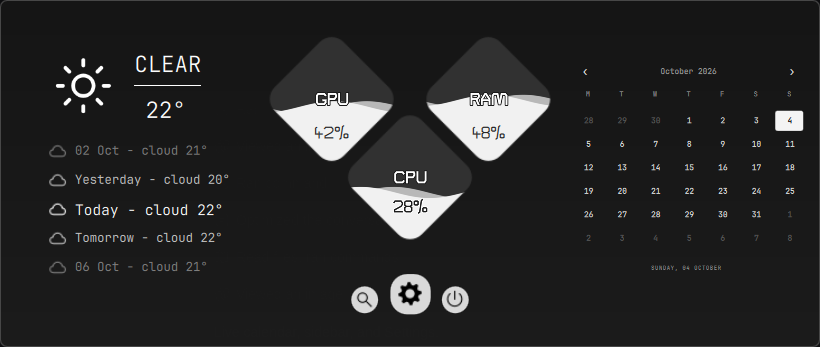
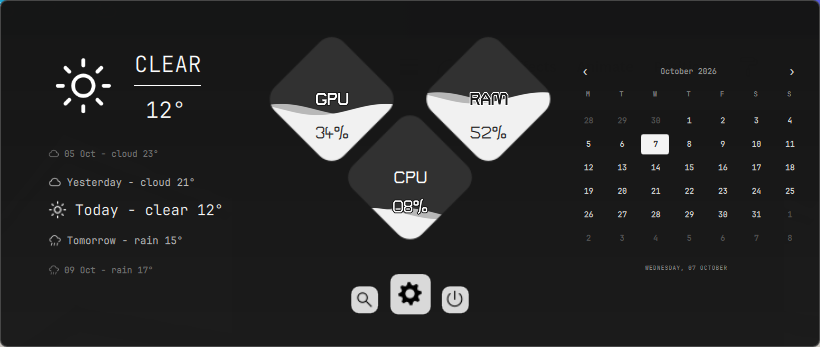
Synchronize calendar current weather and scale forecast rows

diff --git a/config/quickshell/ghost-bar/CalendarPanel.qml b/config/quickshell/ghost-bar/CalendarPanel.qml
@@ -99,10 +99,18 @@ Item {
             return .82 + .18 * (t - 120) / 60;
         return 1;
     }
-    function labelDay(dateString) {
+    function dayOffset(dateString) {
         const d = new Date(dateString + "T12:00:00");
         const today = new Date(now.getFullYear(), now.getMonth(), now.getDate(), 12);
-        const delta = Math.round((d - today) / 86400000);
+        return Math.round((d - today) / 86400000);
+    }
+    function forecastScale(dateString) {
+        const distance = Math.abs(dayOffset(dateString));
+        return distance === 0 ? 1 : distance === 1 ? 0.7 : 0.6;
+    }
+    function labelDay(dateString) {
+        const delta = dayOffset(dateString);
+        const d = new Date(dateString + "T12:00:00");
         return delta === 0 ? "Today" : delta === -1 ? "Yesterday" : delta === 1 ? "Tomorrow" : Qt.formatDateTime(d, "dd MMM");
     }
     function status() {
@@ -221,9 +229,9 @@ Item {
             width: 194
             height: 208
             opacity: cal.groupOpacity(0)
-            readonly property var selectedForecast: cal.forecastSelected ? cal.weather.days?.[cal.forecastIndex] : null
-            readonly property string condition: selectedForecast?.condition || cal.weather.condition
-            readonly property var temperature: selectedForecast?.temperature ?? cal.weather.temperature
+            // Scrolling forecasts never changes the current-weather headline.
+            readonly property string condition: cal.weather.condition
+            readonly property var temperature: cal.weather.temperature
             WeatherGlyph {
                 id: weatherArt
                 x: 0
@@ -293,23 +301,30 @@ Item {
                                 cal.forecastIndex = index;
                                 cal.forecastSelected = true;
                             }
-                            SvgIcon {
-                                x: 0
-                                y: 0
-                                width: 17
-                                height: 17
-                                name: modelData.condition === "clear" ? "brightness" : modelData.condition === "unknown" ? "cloud" : modelData.condition
-                            }
-                            Label {
-                                x: 24
-                                y: 0
-                                width: 170
-                                height: 26
-                                text: cal.labelDay(modelData.date) + " - " + modelData.condition + " " + Math.round(modelData.temperature) + "°"
-                                font.family: Theme.textFont
-                                font.pixelSize: index === cal.forecastIndex ? 13 : 11
-                                font.weight: Font.Light
-                                color: "#ffffff"
+                            Item {
+                                width: parent.width
+                                height: parent.height
+                                scale: cal.forecastScale(modelData.date)
+                                transformOrigin: Item.TopLeft
+                                y: (parent.height - height * scale) / 2
+                                SvgIcon {
+                                    x: 0
+                                    y: 0
+                                    width: 17
+                                    height: 17
+                                    name: modelData.condition === "clear" ? "brightness" : modelData.condition === "unknown" ? "cloud" : modelData.condition
+                                }
+                                Label {
+                                    x: 24
+                                    y: 0
+                                    width: 170
+                                    height: 26
+                                    text: cal.labelDay(modelData.date) + " - " + modelData.condition + " " + Math.round(modelData.temperature) + "°"
+                                    font.family: Theme.textFont
+                                    font.pixelSize: 13
+                                    font.weight: Font.Light
+                                    color: "#ffffff"
+                                }
                             }
                         }
                     }
@@ -470,7 +485,7 @@ Item {
                 width: 24
                 height: 24
                 color: "#d9d9d9"
-                radius: 15
+                radius: 7
                 hint: "Applications"
                 onClicked: cal.navigateRequested("launcher")
                 SvgIcon {
@@ -487,7 +502,7 @@ Item {
                 width: 36
                 height: 36
                 color: "#d9d9d9"
-                radius: 15
+                radius: 7
                 hint: "Settings"
                 onClicked: cal.navigateRequested("settings")
                 SvgIcon {
@@ -504,7 +519,7 @@ Item {
                 width: 24
                 height: 24
                 color: "#d9d9d9"
-                radius: 15
+                radius: 7
                 hint: "Power"
                 onClicked: cal.navigateRequested("session")
                 SvgIcon {

diff --git a/config/quickshell/ghost-bar/weather.py b/config/quickshell/ghost-bar/weather.py
@@ -32,9 +32,15 @@ def normalize(data):
     if not finite(temperature):
         raise ValueError('Invalid temperature')
     days = []
+    current_date = current.get('time', '').split('T')[0]
     for date, code, value in zip(daily['time'], daily['weather_code'], daily['temperature_2m_max']):
         if finite(value):
-            days.append({'date': date, 'condition': condition(code), 'temperature': value})
+            # Today describes now, like the headline, not the daily maximum
+            # or dominant weather code. Other days retain their daily readings.
+            is_today = date == current_date
+            days.append({'date': date,
+                         'condition': condition(current['weather_code'] if is_today else code),
+                         'temperature': temperature if is_today else value})
     return {'condition': condition(current['weather_code']), 'temperature': temperature, 'days': days[:5]}
 
 

diff --git a/tests/test_weather.py b/tests/test_weather.py
@@ -10,6 +10,15 @@ spec.loader.exec_module(weather)
 
 
 class Weather(unittest.TestCase):
+    def test_today_matches_current_while_other_days_keep_daily_readings(self):
+        data = {'current': {'time': '2026-10-07T20:00', 'temperature_2m': 12, 'weather_code': 0},
+                'daily': {'time': ['2026-10-06', '2026-10-07', '2026-10-08'],
+                          'weather_code': [3, 63, 63], 'temperature_2m_max': [21, 18, 15]}}
+        result = weather.normalize(data)
+        self.assertEqual(result['days'][1], {'date': '2026-10-07', 'condition': 'clear', 'temperature': 12})
+        self.assertEqual(result['days'][0]['temperature'], 21)
+        self.assertEqual(result['days'][2]['condition'], 'rain')
+
     def test_codes(self):
         for code, expected in [(0, 'clear'), (3, 'cloud'), (63, 'rain'), (75, 'snow'), (95, 'storm'), (123, 'unknown')]:
             self.assertEqual(weather.condition(code), expected)

diff --git a/docs/PROGRESS.md b/docs/PROGRESS.md
@@ -1,5 +1,16 @@
 # ghOSt progress
 
+## 2026-10-07 / Calendar weather synchronization
+
+Current-weather headline and Today row now use the same API observation;
+historical/future rows retain daily readings. Forecast scrolling no longer changes
+the current headline. Entire forecast rows scale100/70/60% by calendar-day distance
+from today, independent of selection. Bottom action corners are7px rather than15px;
+main frame/meters unchanged.51 tests pass, including a current-vs-daily mismatch
+regression; live London data, native motion/logs and component capture checked.
+Snapshot:`.local/backups/2026-10-07-calendar-iSxpER/` includes source/live originals.
+[Actual calendar](../site/assets/calendar-native.png).
+
 ## 2026-10-07 / Outer gaps and sidebar status only
 
 Latest correction: halve gaps between screen edges and rail, not internal gaps.

diff --git a/promptoutput.md b/promptoutput.md
@@ -1,5 +1,14 @@
 prompts outputs here
 
+## 2026-10-07 · Calendar weather/corners
+
+Headline and Today use current weather together; older/future daily values remain
+real. Forecast rows:Today100%,Yesterday/Tomorrow70%,two-day distance60%.
+Three bottom controls now have7px corners.51 tests pass; active London weather,
+native renderer/logs and [actual output](site/assets/calendar-native.png) verified.
+Files:CalendarPanel.qml,weather.py,tests/test_weather.py,site catalogue/capture.
+Recovery:`.local/backups/2026-10-07-calendar-iSxpER/`; unrelated settings preserved.
+
 ## 2026-10-07 · Outer margins / status icons
 
 Rail outer gaps halved; inside spacing restored. Sidebar status icons/readout30%
